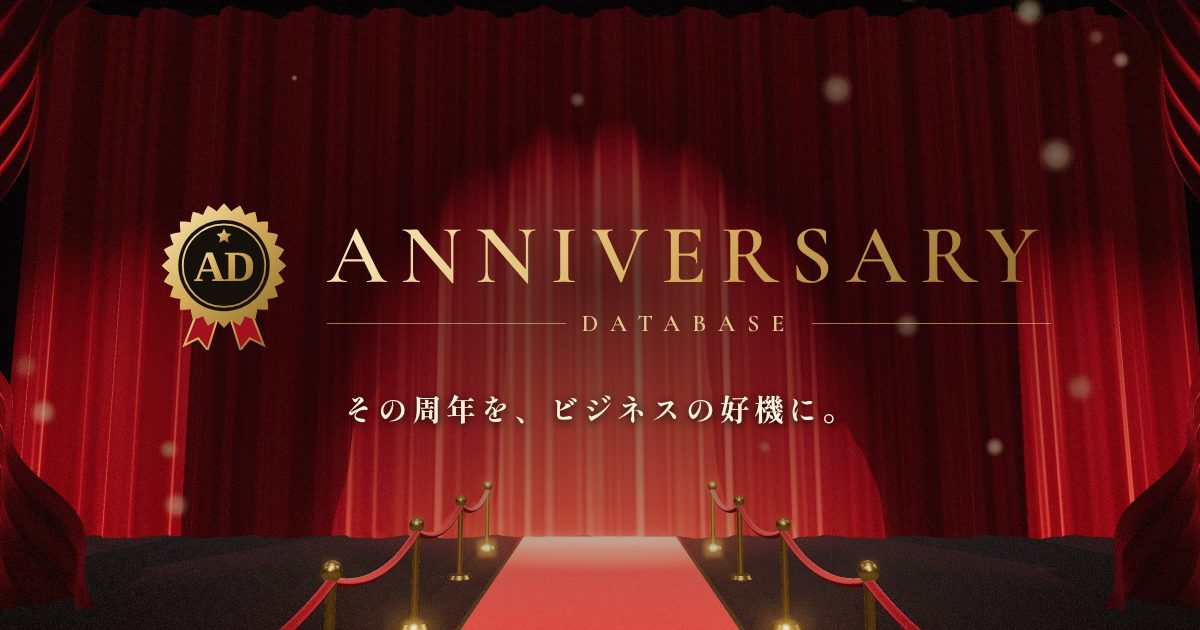
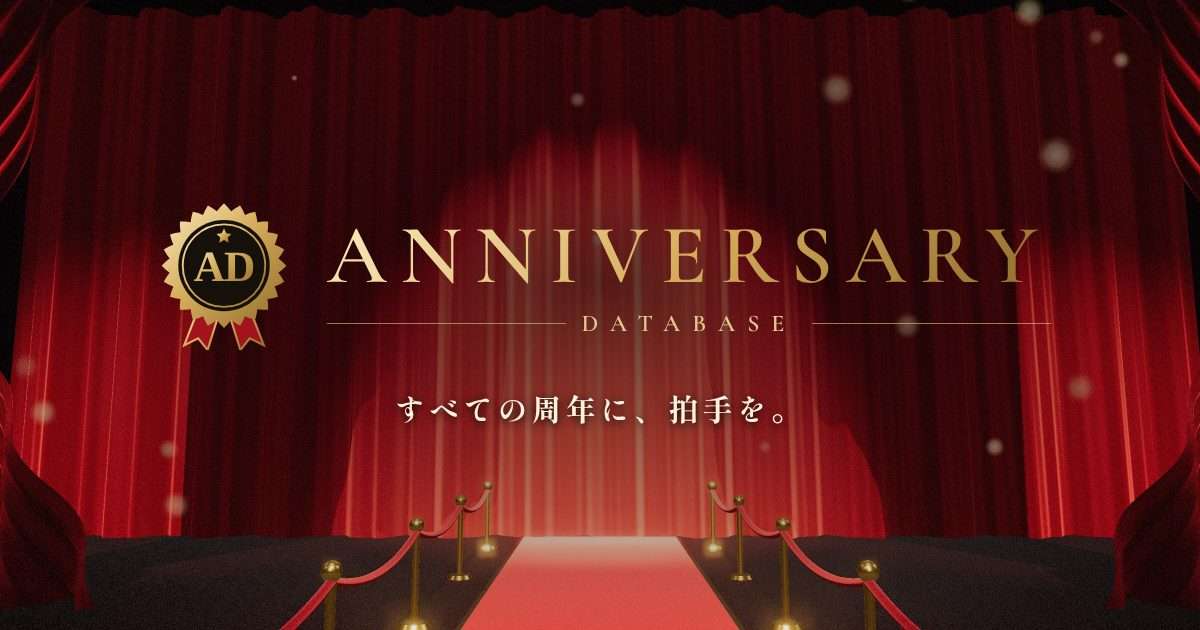
キャッチコピーを「すべての周年に、拍手を。」に変更
Claude-Session: https://claude.ai/code/session_01SBEimxBx1PFTXo5Z1t5N5v

Changed region(s): [[0.2775, 0.6032, 0.6783, 0.6937]]

diff --git a/app/page.tsx b/app/page.tsx
@@ -34,7 +34,7 @@ export default function Home() {
           <div className="hero-brand">
             <Logo size="lg" />
           </div>
-          <h1 className="hero-title">その周年を、ビジネスの好機に。</h1>
+          <h1 className="hero-title">すべての周年に、拍手を。</h1>
           <p className="hero-lead">
             <span className="lead-genres">漫画・アニメ・ゲーム・映画・ブランド・ミュージシャン・上場企業</span>
             <span>約{Math.floor(entities.length / 100) * 100}件の「周年」を、年からも作品からも。</span>
